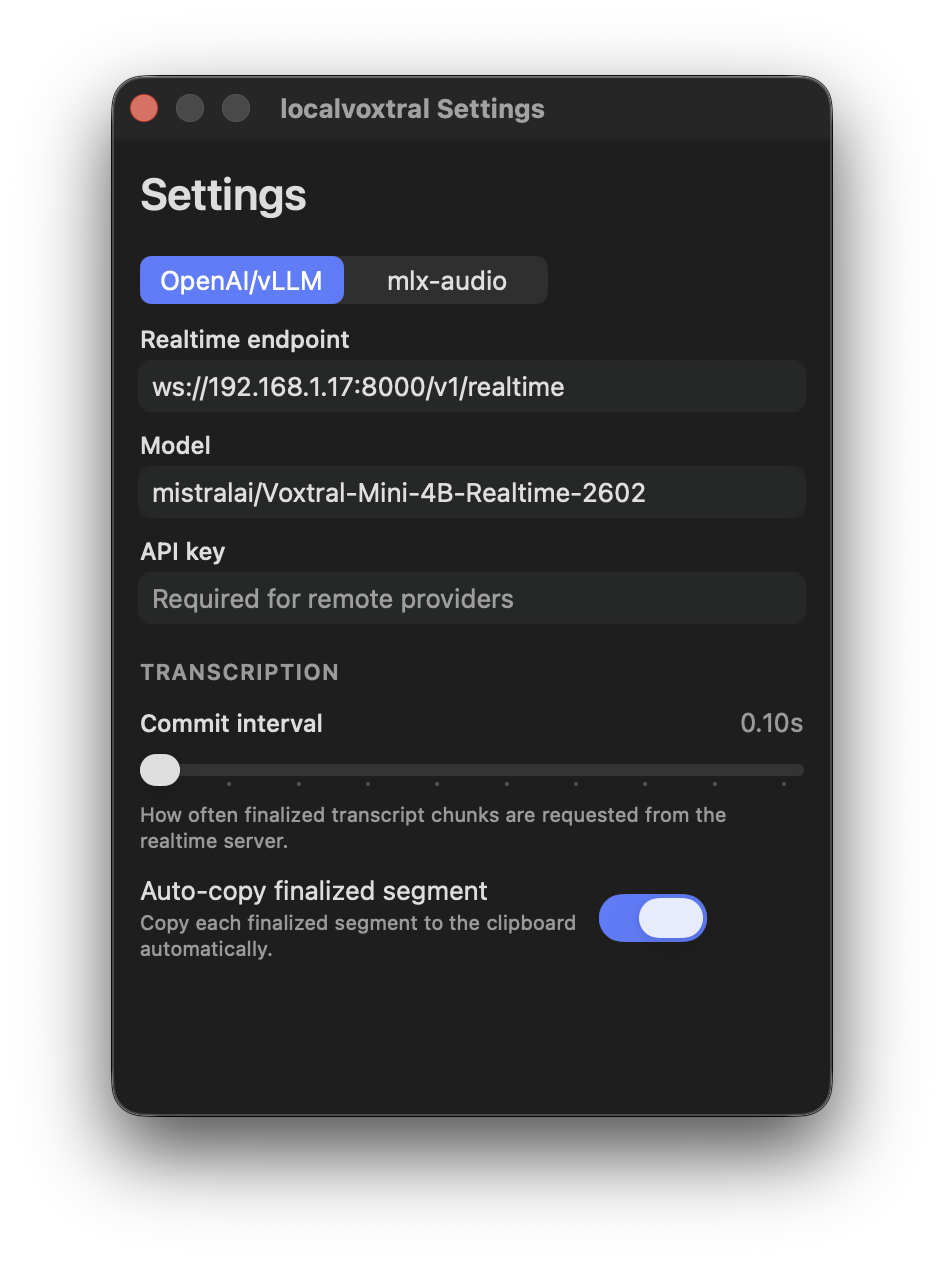
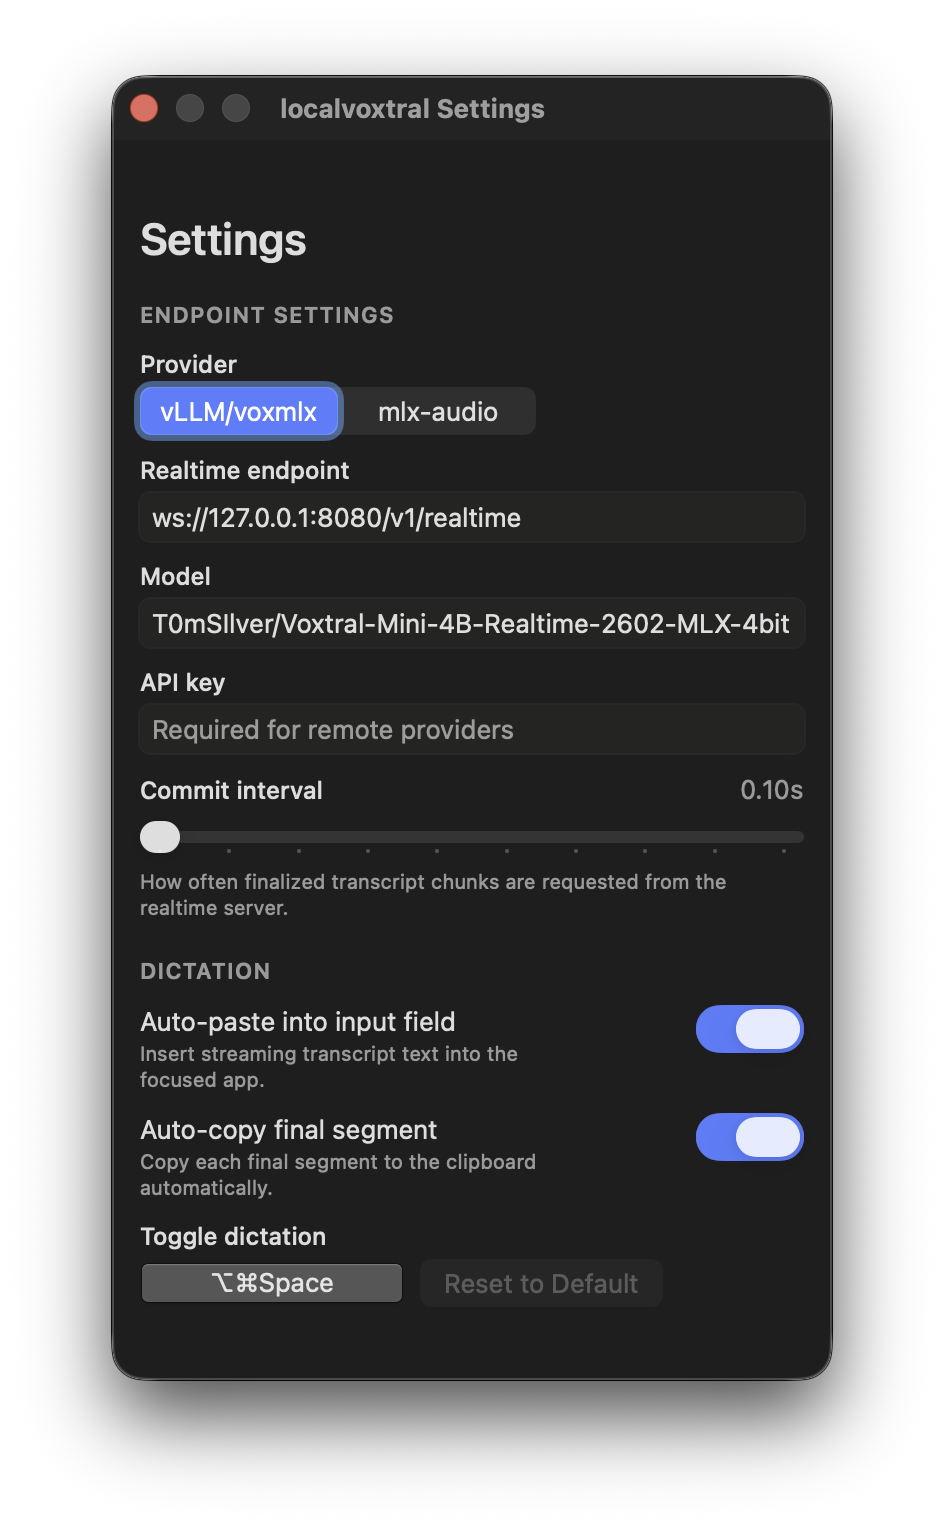
Polish settings window sizing and screenshots

diff --git a/Sources/localvoxtral/SettingsView.swift b/Sources/localvoxtral/SettingsView.swift
@@ -67,131 +67,128 @@ struct SettingsView: View {
             Color(nsColor: .windowBackgroundColor)
                 .ignoresSafeArea()
 
-            ScrollView {
-                VStack(alignment: .leading, spacing: 18) {
-                    VStack(alignment: .leading, spacing: 4) {
-                        Text("Settings")
-                            .font(.system(size: 22, weight: .semibold))
+            VStack(alignment: .leading, spacing: 18) {
+                VStack(alignment: .leading, spacing: 4) {
+                    Text("Settings")
+                        .font(.system(size: 22, weight: .semibold))
+                }
+
+                SettingsSection(title: "Endpoint Settings") {
+                    SettingsField(title: "Provider") {
+                        Picker("", selection: $settings.realtimeProvider) {
+                            ForEach(SettingsStore.RealtimeProvider.allCases) { provider in
+                                Text(provider.displayName).tag(provider)
+                            }
+                        }
+                        .pickerStyle(.segmented)
+                        .labelsHidden()
                     }
 
-                    SettingsSection(title: "Endpoint Settings") {
-                        SettingsField(title: "Provider") {
-                            Picker("", selection: $settings.realtimeProvider) {
-                                ForEach(SettingsStore.RealtimeProvider.allCases) { provider in
-                                    Text(provider.displayName).tag(provider)
-                                }
-                            }
-                            .pickerStyle(.segmented)
-                            .labelsHidden()
-                        }
+                    SettingsField(title: "Realtime endpoint") {
+                        TextField(settings.endpointPlaceholder, text: endpointBinding)
+                            .textFieldStyle(.roundedBorder)
+                    }
 
-                        SettingsField(title: "Realtime endpoint") {
-                            TextField(settings.endpointPlaceholder, text: endpointBinding)
+                    SettingsField(title: "Model") {
+                        TextField(settings.modelPlaceholder, text: modelBinding)
+                            .textFieldStyle(.roundedBorder)
+                    }
+
+                    if settings.realtimeProvider == .realtimeAPI {
+                        SettingsField(title: "API key") {
+                            SecureField("Required for remote providers", text: $settings.apiKey)
                                 .textFieldStyle(.roundedBorder)
-                        }
-
-                        SettingsField(title: "Model") {
-                            TextField(settings.modelPlaceholder, text: modelBinding)
-                                .textFieldStyle(.roundedBorder)
-                        }
-
-                        if settings.realtimeProvider == .realtimeAPI {
-                            SettingsField(title: "API key") {
-                                SecureField("Required for remote providers", text: $settings.apiKey)
-                                    .textFieldStyle(.roundedBorder)
-                            }
-                        }
-
-                        if settings.realtimeProvider == .realtimeAPI {
-                            VStack(alignment: .leading, spacing: 8) {
-                                HStack(alignment: .firstTextBaseline) {
-                                    Text("Commit interval")
-                                        .font(.system(size: 12, weight: .medium))
-                                    Spacer()
-                                    Text(String(format: "%.2fs", settings.commitIntervalSeconds))
-                                        .foregroundStyle(.secondary)
-                                }
-
-                                Slider(value: $settings.commitIntervalSeconds, in: 0.1 ... 1.0, step: 0.1)
-
-                                Text("How often finalized transcript chunks are requested from the realtime server.")
-                                    .font(.caption)
-                                    .foregroundStyle(.secondary)
-                                    .fixedSize(horizontal: false, vertical: true)
-                            }
-                        } else {
-                            VStack(alignment: .leading, spacing: 8) {
-                                HStack(alignment: .firstTextBaseline) {
-                                    Text("Transcription delay")
-                                        .font(.system(size: 12, weight: .medium))
-                                    Spacer()
-                                    Text(mlxTranscriptionDelayLabel)
-                                        .foregroundStyle(.secondary)
-                                }
-
-                                Slider(value: mlxTranscriptionDelaySecondsBinding, in: 0.4 ... 2.0, step: 0.1)
-
-                                Text("How long mlx-audio waits for right-context before emitting tokens.")
-                                    .font(.caption)
-                                    .foregroundStyle(.secondary)
-                                    .fixedSize(horizontal: false, vertical: true)
-                            }
                         }
                     }
 
-                    SettingsSection(title: "Dictation") {
-                        ToggleSettingRow(
-                            title: "Auto-paste into input field",
-                            subtitle: "Insert streaming transcript text into the focused app.",
-                            isOn: $settings.autoPasteIntoInputFieldEnabled
-                        )
-
-                        ToggleSettingRow(
-                            title: "Auto-copy final segment",
-                            subtitle: "Copy each final segment to the clipboard automatically.",
-                            isOn: $settings.autoCopyEnabled
-                        )
-
-                        SettingsField(title: "Toggle dictation") {
-                            VStack(alignment: .leading, spacing: 6) {
-                                HStack(alignment: .center, spacing: 8) {
-                                    ShortcutRecorderField(
-                                        shortcut: dictationShortcutBinding,
-                                        validationError: $shortcutValidationError,
-                                        fixedWidth: 132
-                                    )
-                                    .frame(height: 24, alignment: .leading)
-
-                                    Button("Reset to Default") {
-                                        shortcutValidationError = nil
-                                        viewModel.updateDictationShortcut(SettingsStore.defaultDictationShortcut)
-                                    }
-                                    .disabled(settings.dictationShortcut == SettingsStore.defaultDictationShortcut)
-                                }
+                    if settings.realtimeProvider == .realtimeAPI {
+                        VStack(alignment: .leading, spacing: 8) {
+                            HStack(alignment: .firstTextBaseline) {
+                                Text("Commit interval")
+                                    .font(.system(size: 12, weight: .medium))
+                                Spacer()
+                                Text(String(format: "%.2fs", settings.commitIntervalSeconds))
+                                    .foregroundStyle(.secondary)
                             }
-                        }
 
-                        if let shortcutValidationError {
-                            Text(shortcutValidationError)
-                                .font(.caption)
-                                .foregroundStyle(.red)
-                                .fixedSize(horizontal: false, vertical: true)
-                        }
+                            Slider(value: $settings.commitIntervalSeconds, in: 0.1 ... 1.0, step: 0.1)
 
-                        if settings.dictationShortcut == nil {
-                            Text("Global dictation shortcut is currently disabled.")
+                            Text("How often finalized transcript chunks are requested from the realtime server.")
                                 .font(.caption)
                                 .foregroundStyle(.secondary)
                                 .fixedSize(horizontal: false, vertical: true)
                         }
+                    } else {
+                        VStack(alignment: .leading, spacing: 8) {
+                            HStack(alignment: .firstTextBaseline) {
+                                Text("Transcription delay")
+                                    .font(.system(size: 12, weight: .medium))
+                                Spacer()
+                                Text(mlxTranscriptionDelayLabel)
+                                    .foregroundStyle(.secondary)
+                            }
 
+                            Slider(value: mlxTranscriptionDelaySecondsBinding, in: 0.4 ... 2.0, step: 0.1)
+
+                            Text("How long mlx-audio waits for right-context before emitting tokens.")
+                                .font(.caption)
+                                .foregroundStyle(.secondary)
+                                .fixedSize(horizontal: false, vertical: true)
+                        }
                     }
                 }
-                .frame(width: 332, alignment: .leading)
-                .padding(.horizontal, 14)
-                .padding(.vertical, 14)
+
+                SettingsSection(title: "Dictation") {
+                    ToggleSettingRow(
+                        title: "Auto-paste into input field",
+                        subtitle: "Insert streaming transcript text into the focused app.",
+                        isOn: $settings.autoPasteIntoInputFieldEnabled
+                    )
+
+                    ToggleSettingRow(
+                        title: "Auto-copy final segment",
+                        subtitle: "Copy each final segment to the clipboard automatically.",
+                        isOn: $settings.autoCopyEnabled
+                    )
+
+                    SettingsField(title: "Toggle dictation") {
+                        VStack(alignment: .leading, spacing: 6) {
+                            HStack(alignment: .center, spacing: 8) {
+                                ShortcutRecorderField(
+                                    shortcut: dictationShortcutBinding,
+                                    validationError: $shortcutValidationError,
+                                    fixedWidth: 132
+                                )
+                                .frame(height: 24, alignment: .leading)
+
+                                Button("Reset to Default") {
+                                    shortcutValidationError = nil
+                                    viewModel.updateDictationShortcut(SettingsStore.defaultDictationShortcut)
+                                }
+                                .disabled(settings.dictationShortcut == SettingsStore.defaultDictationShortcut)
+                            }
+                        }
+                    }
+
+                    if let shortcutValidationError {
+                        Text(shortcutValidationError)
+                            .font(.caption)
+                            .foregroundStyle(.red)
+                            .fixedSize(horizontal: false, vertical: true)
+                    }
+
+                    if settings.dictationShortcut == nil {
+                        Text("Global dictation shortcut is currently disabled.")
+                            .font(.caption)
+                            .foregroundStyle(.secondary)
+                            .fixedSize(horizontal: false, vertical: true)
+                    }
+
+                }
             }
-            .scrollIndicators(.never)
+            .frame(width: 332, alignment: .leading)
+            .padding(.horizontal, 14)
+            .padding(.vertical, 14)
         }
     }
 }

diff --git a/Sources/localvoxtral/localvoxtralApp.swift b/Sources/localvoxtral/localvoxtralApp.swift
@@ -84,9 +84,9 @@ struct localvoxtralApp: App {
 
         Settings {
             SettingsView(settings: settingsStore, viewModel: viewModel)
-                .frame(minWidth: 336, idealWidth: 360, maxWidth: 520, minHeight: 470, idealHeight: 520, maxHeight: 960)
+                .frame(minWidth: 336, idealWidth: 360, maxWidth: 520, minHeight: 620, idealHeight: 620, maxHeight: 960)
         }
-        .defaultSize(width: 360, height: 520)
+        .defaultSize(width: 360, height: 620)
         .windowResizability(.contentSize)
         .restorationBehavior(.disabled)
     }

diff --git a/README.md b/README.md
@@ -12,11 +12,10 @@ It supports two realtime backend modes: OpenAI-Compatible Realtime API endpoints
 ## Features
 
 - User-configurable global shortcut to start/stop dictation from anywhere
-- Native menu bar app with instant open, no heavy UI
+- Native menu bar app with instant open and visual feedback with the icon
 - Live dictation that writes into your active text field as you speak
 - Pick your preferred microphone input device
 - Copy the latest transcribed segment
-- Stabilized mlx-audio transcription with word-boundary-aligned hypothesis merging
 
 ## Quick start
 
@@ -36,7 +35,8 @@ open ./dist/localvoxtral.app
   - API key
   - Commit interval (`vLLM`/`voxmlx`)
   - Transcription delay (`mlx-audio`)
-  - Auto-copy finalized segment
+  - Auto-paste into input field
+  - Auto-copy final segment
 
 ## Screenshots
 
@@ -83,7 +83,7 @@ MLX_AUDIO_REALTIME_MAX_CHUNK_SECONDS=30 python -m mlx_audio.server --workers 1
 
 ## Roadmap
 
-- [x] Customize keyboard shortcut
+- [ ] Enhance the server connection UX
 - [ ] Implement more of the on-device Voxtral Realtime integrations recommended in the model README:
   - [Pure C](https://github.com/antirez/voxtral.c) - thanks [Salvatore Sanfilippo](https://github.com/antirez)
   -  **done** ~~[mlx-audio framework](https://github.com/Blaizzy/mlx-audio) - thanks [Shreyas Karnik](https://github.com/shreyaskarnik)~~
